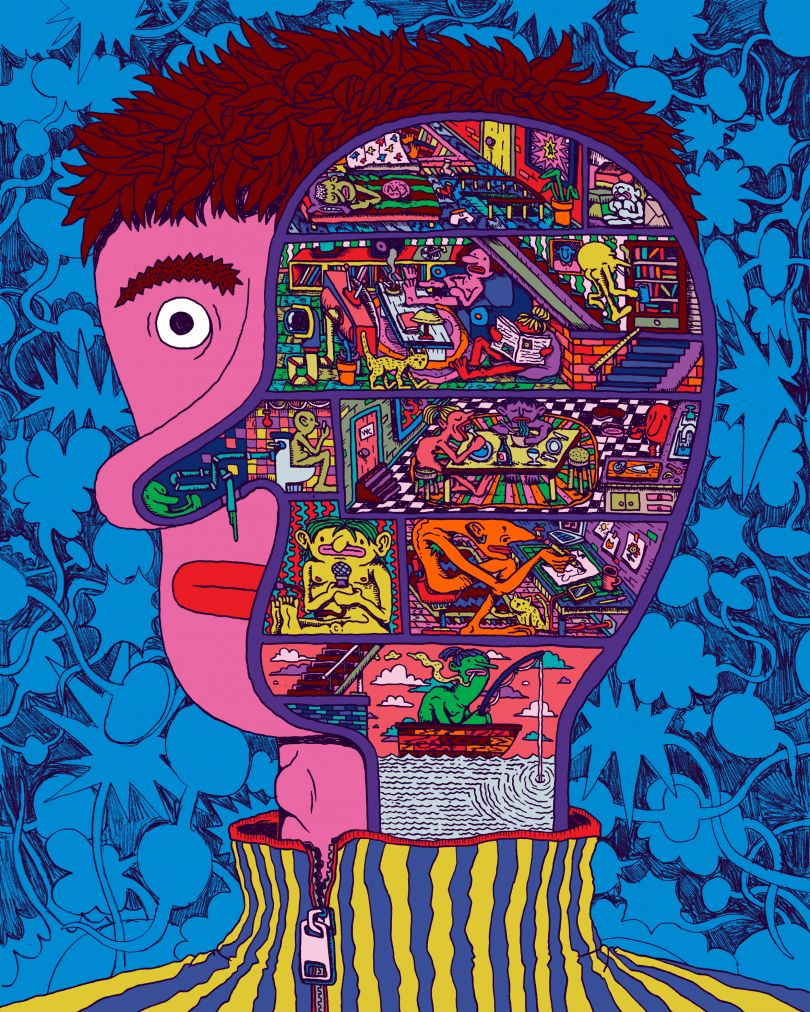
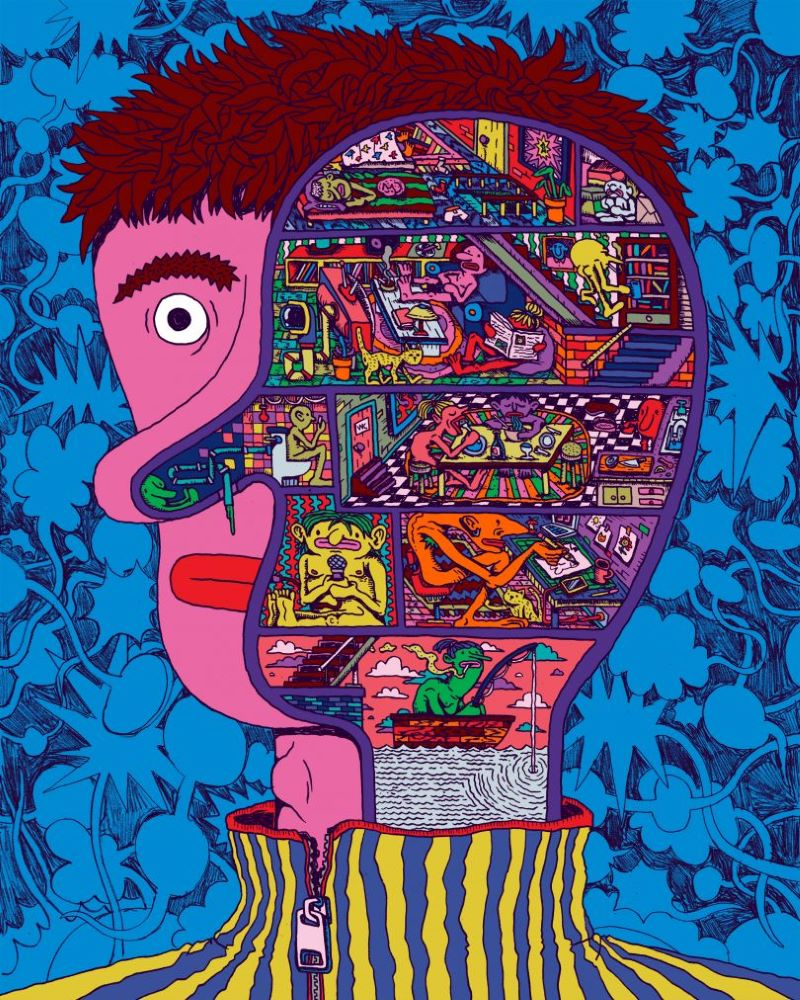
change images' format and sizes for better performance

diff --git a/src/app/portfolio/[category]/data.js b/src/app/portfolio/[category]/data.js
@@ -4,19 +4,19 @@ const items = {
       id: 1,
       title: "Creative Portfolio",
       desc: "Lorem ipsum dolor, sit amet consectetur adipisicing elit. Pariatur vel tenetur necessitatibus unde natus perspiciatis, amet cupiditate ducimus possimus, eaque ex autem id nobis eum dolorem. Neque eveniet fugiat tenetur?",
-      image: "/images/wall-painting.jpeg",
+      image: "/images/wall-painting.jpg",
     },
     {
       id: 2,
       title: "Minimal Single Product",
       desc: "Lorem ipsum dolor, sit amet consectetur adipisicing elit. Pariatur vel tenetur necessitatibus unde natus perspiciatis, amet cupiditate ducimus possimus, eaque ex autem id nobis eum dolorem. Neque eveniet fugiat tenetur?",
-      image: "/images/girl-painting.jpeg",
+      image: "/images/girl-painting.jpg",
     },
     {
       id: 3,
       title: "Strong Together Charity",
       desc: "Lorem ipsum dolor, sit amet consectetur adipisicing elit. Pariatur vel tenetur necessitatibus unde natus perspiciatis, amet cupiditate ducimus possimus, eaque ex autem id nobis eum dolorem. Neque eveniet fugiat tenetur?",
-      image: "/images/coffee.jpeg",
+      image: "/images/coffee.jpg",
     },
   ],
   illustrations: [
@@ -24,19 +24,19 @@ const items = {
       id: 1,
       title: "Creative Portfolio",
       desc: "Lorem ipsum dolor, sit amet consectetur adipisicing elit. Pariatur vel tenetur necessitatibus unde natus perspiciatis, amet cupiditate ducimus possimus, eaque ex autem id nobis eum dolorem. Neque eveniet fugiat tenetur?",
-      image: "/images/wall-painting.jpeg",
+      image: "/images/wall-painting.jpg",
     },
     {
       id: 2,
       title: "Minimal Single Product",
       desc: "Lorem ipsum dolor, sit amet consectetur adipisicing elit. Pariatur vel tenetur necessitatibus unde natus perspiciatis, amet cupiditate ducimus possimus, eaque ex autem id nobis eum dolorem. Neque eveniet fugiat tenetur?",
-      image: "/images/girl-painting.jpeg",
+      image: "/images/girl-painting.jpg",
     },
     {
       id: 3,
       title: "Strong Together Charity",
       desc: "Lorem ipsum dolor, sit amet consectetur adipisicing elit. Pariatur vel tenetur necessitatibus unde natus perspiciatis, amet cupiditate ducimus possimus, eaque ex autem id nobis eum dolorem. Neque eveniet fugiat tenetur?",
-      image: "/images/coffee.jpeg",
+      image: "/images/coffee.jpg",
     },
   ],
   websites: [
@@ -44,19 +44,19 @@ const items = {
       id: 1,
       title: "Creative Portfolio",
       desc: "Lorem ipsum dolor, sit amet consectetur adipisicing elit. Pariatur vel tenetur necessitatibus unde natus perspiciatis, amet cupiditate ducimus possimus, eaque ex autem id nobis eum dolorem. Neque eveniet fugiat tenetur?",
-      image: "/images/wall-painting.jpeg",
+      image: "/images/wall-painting.jpg",
     },
     {
       id: 2,
       title: "Minimal Single Product",
       desc: "Lorem ipsum dolor, sit amet consectetur adipisicing elit. Pariatur vel tenetur necessitatibus unde natus perspiciatis, amet cupiditate ducimus possimus, eaque ex autem id nobis eum dolorem. Neque eveniet fugiat tenetur?",
-      image: "/images/girl-painting.jpeg",
+      image: "/images/girl-painting.jpg",
     },
     {
       id: 3,
       title: "Strong Together Charity",
       desc: "Lorem ipsum dolor, sit amet consectetur adipisicing elit. Pariatur vel tenetur necessitatibus unde natus perspiciatis, amet cupiditate ducimus possimus, eaque ex autem id nobis eum dolorem. Neque eveniet fugiat tenetur?",
-      image: "/images/coffee.jpeg",
+      image: "/images/coffee.jpg",
     },
   ],
 };
